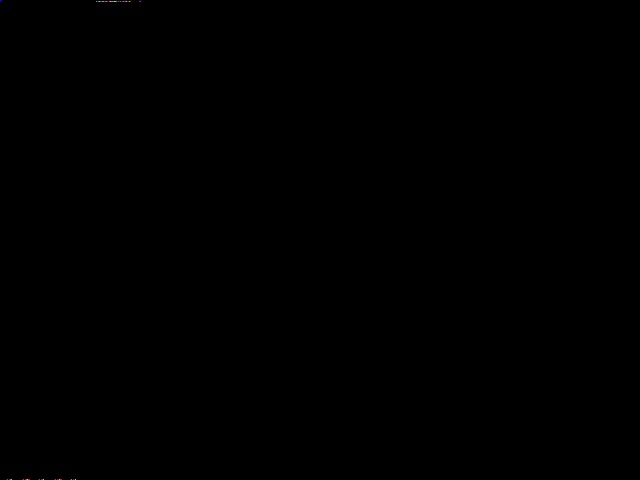
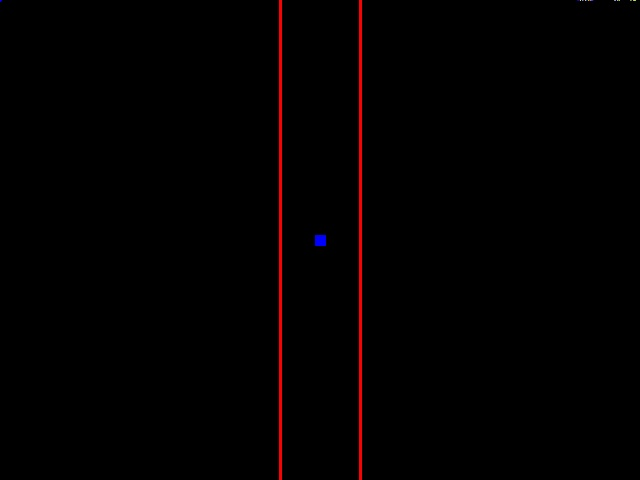
2d版

Changed region(s): [[0.4375, 0.0, 0.5312, 1.0], [0.5625, 0.0, 0.5938, 1.0]]

diff --git a/2d/main.py b/2d/main.py
@@ -1,0 +1,138 @@
+import cv2
+import numpy as np
+from PIL import Image
+
+# if __name__ == '__main__':
+# print("opencv main")
+
+# 最大框框+它的中心
+max_x = 0
+max_y = 0
+max_w = 0
+max_h = 0
+center_x = 320
+center_y = 240
+
+# # 神奇寶貝球
+# pokemon_ball = 'image/pokemon_ball.png'
+# ball = Image.open(pokemon_ball)
+# ball = ball.resize((64, 64))
+
+# # 皮卡丘耳朵
+# pikachu_ear = 'image/ear.png'
+# ear = Image.open(pikachu_ear)
+
+
+faceCascade = cv2.CascadeClassifier(
+    "./haarcascade_frontalface_default.xml")
+
+cap = cv2.VideoCapture(0)
+if not cap.isOpened():
+    print("Cannot open camera")
+    exit()
+cap.set(3, 640)   # 寬
+cap.set(4, 480)   # 高
+cap.set(10, 100)  # 亮度
+
+while True:
+    _x = 0
+    _y = 0
+    _w = 0
+    _h = 0
+
+    # 神奇寶貝球
+    pokemon_ball = 'image/pokemon_ball.png'
+    ball = Image.open(pokemon_ball)
+    ball = ball.resize((100, 100))
+
+    # 皮卡丘耳朵
+    pikachu_ear = 'image/ear.png'
+    ear = Image.open(pikachu_ear)
+
+    # Read = Grab + Retrieve + Buffer (Block diagram)
+    success, frame = cap.retrieve(cap.grab())
+    # print(success)
+    frame = cv2.flip(frame, 1)
+
+    gray = cv2.cvtColor(frame, cv2.COLOR_BGR2GRAY)
+    # blurred = cv2.GaussianBlur(gray, (11, 11), 0)
+    # binary = cv2.Canny(blurred, 20, 160)
+
+    faces = faceCascade.detectMultiScale(gray, 1.1, 4)
+    for (x, y, w, h) in faces:
+        if w * h > _w * _h:
+            _x = x
+            _y = y
+            _w = w
+            _h = h
+
+    if _w * _h > 15000:
+        max_x = _x
+        max_y = _y
+        max_w = _w
+        max_h = _h
+        center_x = max_x + max_w / 2
+        center_y = max_y + max_h / 2
+    # print(self.max_w * self.max_h)  # 臉的框框大小
+
+    # webcam畫面
+    frame = cv2.rectangle(
+        frame, (max_x, max_y), (max_x+max_w, max_y+max_h), (255, 0, 0), 2)
+    # frame = cv2.rectangle(
+    #     frame, (int(center_x)-5, int(center_y)-5), (int(center_x)+5, int(center_y)+5), (255, 0, 0), -1)  # 中點
+    frame = cv2.rectangle(frame, (max_x, max_y), (max_x+max_w,
+                                                  max_y+20), (0, 0, 255), -1)  # 頭頂
+
+    # 分數
+    cv2.putText(frame, "score: ", (10, 25),
+                cv2.FONT_HERSHEY_COMPLEX, 1, (0, 0, 255), 1)
+
+    # OpenCV轉PIL
+    frame = Image.fromarray(cv2.cvtColor(
+        frame, cv2.COLOR_BGR2RGB))
+
+    # 神奇寶貝球
+    compose = Image.new('RGBA', (640, 480), (0, 0, 0, 0))
+    compose.paste(frame, (0, 0))
+    compose.paste(ball, (0, 0), mask=ball)
+
+    # 耳朵
+    ear = ear.resize(
+        (int(max_w * 2), int(max_w * 2 / 851 * 475)), Image.ANTIALIAS)
+    ear_x = int(max_x - ear.size[1] * 0.15)
+    ear_y = max_y - ear.size[1]
+    if(ear_y >= 0):
+        compose.paste(ear, (ear_x, ear_y), mask=ear)
+
+    # PIL轉OpenCV
+    compose = cv2.cvtColor(np.asarray(
+        compose), cv2.COLOR_RGB2BGR)
+
+    cv2.imshow("video", compose)
+
+    # 臉的框框
+    # face = np.zeros((480, 640, 3), np.uint8)
+    # face = cv2.rectangle(
+    #     face, (self.max_x, self.max_y), (self.max_x+self.max_w, self.max_y+self.max_h), (255, 0, 0), 2)
+    # cv2.imshow("face", face)
+
+    if cv2.waitKey(1) & 0xFF == ord('q'):
+        cv2.imwrite('captest.jpg', frame)
+        break
+
+cap.release()
+cv2.destroyAllWindows()
+
+
+# cv2.imshow("gray", gray)
+# cv2.imshow("blurred", blurred)
+# cv2.imshow("binary", binary)
+
+# text = np.zeros((480, 320, 3), np.uint8)
+# cv2.putText(text, "test", (50, 50),
+#             cv2.FONT_HERSHEY_COMPLEX, 1, (0, 0, 255), 1)
+# imgStack = np.hstack((frame, text))
+
+# add_ball = cv2.addWeighted(frame[0:64, 0:64, :],
+#                            0.1, ball[0:64, 0:64, :], 0.9, 0)
+# frame[0:64, 0:64, :] = add_ball

diff --git a/code/opencv.py b/code/opencv.py
@@ -11,12 +11,11 @@ class Camera:
     center_y = 240
 
     def captureFace(self):
-        f = open("data.txt", mode="w")
 
         faceCascade = cv2.CascadeClassifier(
             "./haarcascade_frontalface_default.xml")
-
         cap = cv2.VideoCapture(0, cv2.CAP_DSHOW)
+
         if not cap.isOpened():
             print("Cannot open camera")
             exit()
@@ -32,6 +31,7 @@ class Camera:
 
             # Read = Grab + Retrieve + Buffer (Block diagram)
             success, frame = cap.retrieve(cap.grab())
+
             # print(success)
             frame = cv2.flip(frame, 1)
 
@@ -57,18 +57,20 @@ class Camera:
             # print(self.max_w * self.max_h)  # 臉的框框大小
 
             # 寫檔
-            f = open("./data.txt", mode="w")
-            f.write(
-                str(self.center_x) + "\n" + str(self.center_y))
-            f.close()
+            # f = open("./data.txt", mode="w")
+            # f.write(
+            #     str(self.center_x) + "\n" + str(self.center_y))
+            # f.close()
 
             # webcam畫面
             frame = cv2.rectangle(
                 frame, (self.max_x, self.max_y), (self.max_x+self.max_w, self.max_y+self.max_h), (255, 0, 0), 2)
+            frame = cv2.rectangle(
+                frame, (int(self.center_x)-5, int(self.center_y)-5), (int(self.center_x)+5, int(self.center_y)+5), (255, 0, 0), -1)  # 中點
             frame = cv2.line(frame, (280, 0), (280, 480),
-                             (0, 0, 255), 2)  # 中間範圍
+                             (0, 0, 255), 2)  # 中間範圍 左
             frame = cv2.line(frame, (360, 0), (360, 480),
-                             (0, 0, 255), 2)  # 中間範圍
+                             (0, 0, 255), 2)  # 中間範圍 右
             cv2.imshow("video", frame)
 
             # 臉的框框

diff --git a/code/window.py b/code/window.py
@@ -31,11 +31,11 @@ class Scene:
     ball_a = vec(0, -g, 0)                                   # 小球加速度(向量)
 
     # x軸箭頭
-    x_axis = arrow(axis=vec(1, 0, 0), shaftwidth=0.01)
+    x_axis = arrow(axis=vec(25, 0, 0), shaftwidth=0.1)
     # y軸箭頭
-    y_axis = arrow(axis=vec(0, 1, 0), shaftwidth=0.01)
+    y_axis = arrow(axis=vec(0, 25, 0), shaftwidth=0.1)
     # z軸箭頭
-    z_axis = arrow(axis=vec(0, 0, 1), shaftwidth=0.01)
+    z_axis = arrow(axis=vec(0, 0, 25), shaftwidth=0.1)
 
     # 遊戲開始(小球、玩家移動)
     def start(self):

diff --git a/test/transprerant.py b/test/transprerant.py
@@ -1,0 +1,16 @@
+from PIL import Image
+import os
+
+pokemon_ball = 'image/pokemon_ball.png'
+ball = Image.open(pokemon_ball)
+filename1 = 'image/未命名.png'
+bg = Image.open(filename1)
+text_img = Image.new('RGBA', (500, 300), (0, 0, 0, 0))
+text_img.paste(bg, (0, 0))
+text_img.paste(ball, (0, 0), mask=ball)
+text_img.save("ball.png", format="png")
+
+# OpenCV轉PIL
+# image = Image.fromarray(cv2.cvtColor(img, cv2.COLOR_BGR2RGB))
+# PIL轉OpenCV
+# img = cv2.cvtColor(numpy.asarray(image), cv2.COLOR_RGB2BGR)

diff --git a/code/main.py b/code/main.py
@@ -2,13 +2,13 @@ import multiprocessing as mp
 import time
 from opencv import *
 from window import *
-
+# 不用main分開執行, opencv.py用debug模式, window.py直接執行
 if __name__ == '__main__':
 
     scene = Scene()
     camera = Camera()  # 不知道為什麼在main.py執行會報錯opencv.py就不會
 
-    pb = mp.Process(target=scene.throwBall)
+    pb = mp.Process(target=scene.start)
     pc = mp.Process(target=camera.captureFace)
 
     pb.start()

diff --git a/README.md b/README.md
@@ -1,2 +1,3 @@
 # user_experience_design
 test
+先用2d版的
